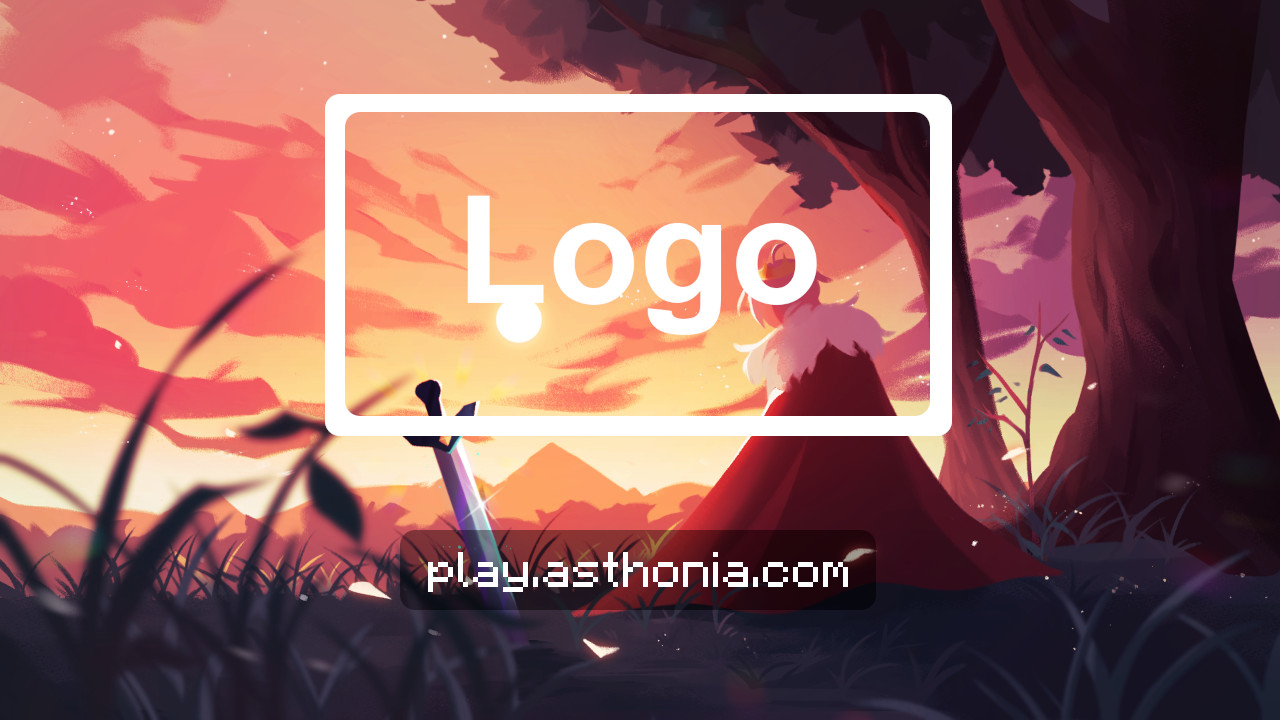
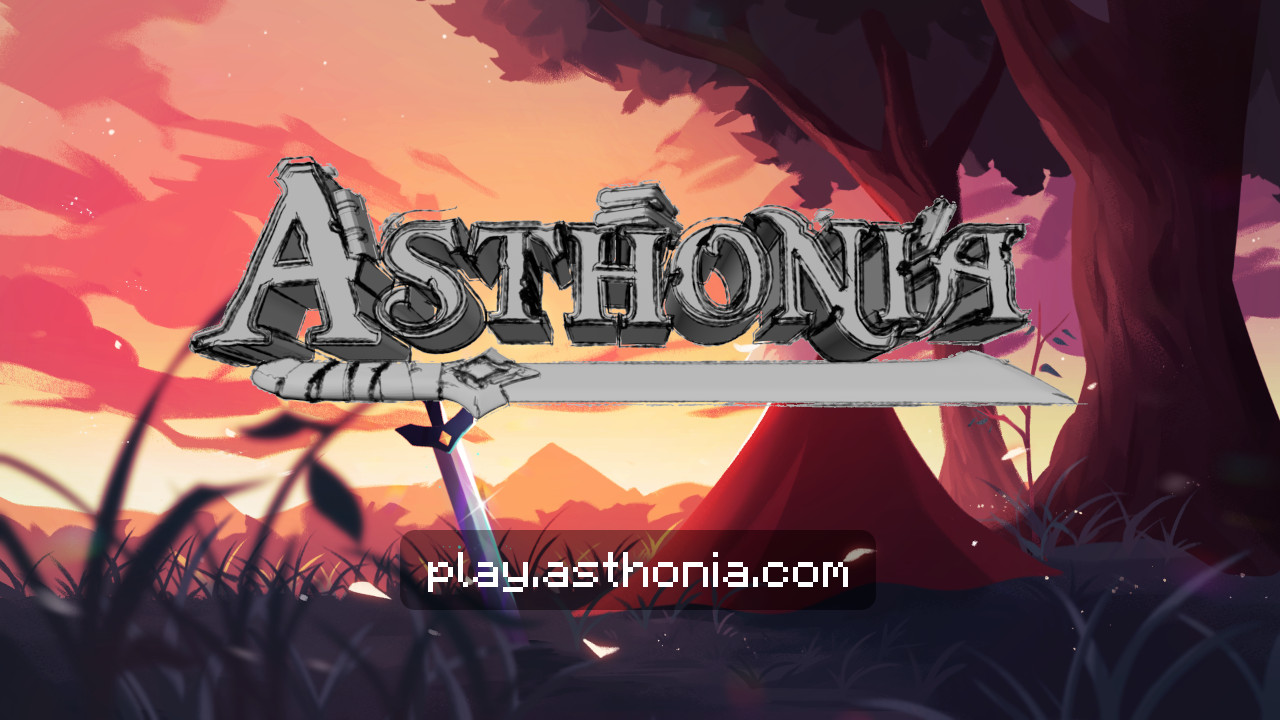
Sync remote

Changed region(s): [[0.125, 0.1222, 0.8438, 0.6111]]

diff --git a/content/assets/templates/seo.html b/content/assets/templates/seo.html
@@ -1,15 +1,15 @@
 <meta charset="utf-8" />
-<meta name="description" content="A semi-vanilla 1.18.1 survival Minecraft server. Hard survival. RPG skills and abilities. Java + Bedrock support! A challenging adventure awaits... Join Now!" />
+<meta name="description" content="1.18.1 RPG survival Minecraft server! Friendly community. PVE. RPG skills and abilities. Java + Bedrock support! A challenging adventure awaits... Join Now!" />
 <meta property="og:url" content="https://asthonia.com" />
 <meta property="og:type" content="website" />
 <meta property="og:title" content="Asthonia Minecraft Server" />
-<meta property="og:description" content="A semi-vanilla 1.18.1 survival Minecraft server. Hard survival. RPG skills. Java + Bedrock support!" />
+<meta property="og:description" content="1.18.1 RPG survival Minecraft server! Friendly community. PVE. RPG skills and abilities. Java + Bedrock support!" />
 <meta property="og:image" content="https://asthonia.com/assets/images/promo-card.jpg" />
 <meta name="twitter:card" content="summary_large_image" />
 <meta property="twitter:domain" content="asthonia.com" />
 <meta property="twitter:url" content="https://asthonia.com" />
 <meta name="twitter:title" content="Asthonia Minecraft Server" />
-<meta name="twitter:description" content="A semi-vanilla 1.18.1 survival Minecraft server. Hard survival. RPG skills. Java + Bedrock support!" />
+<meta name="twitter:description" content="1.18.1 RPG survival Minecraft server! Friendly community. PVE. RPG skills and abilities. Java + Bedrock support!" />
 <meta name="twitter:image" content="https://asthonia.com/assets/images/promo-card.jpg" />
 <meta name="viewport" content="width=device-width,initial-scale=1.0,user-scalable=no" />
 <meta name="apple-mobile-web-app-capable" content="yes" />

diff --git a/content/index.php b/content/index.php
@@ -47,7 +47,7 @@
       <div class="title" style="background: linear-gradient( rgba(0, 0, 0, 0.1), rgba(0, 0, 0, 0.3) ), url(/assets/images/starshrew-bg.webp); background-size: cover; background-position: 85%;">
         <div id="landing-title-text" style="text-align: center">
           <img id="landing-logo" src="/assets/images/logo.webp" alt="Asthonia Logo" />
-          <h1 class="hide-mobile-2">Adventure Awaits</h1>
+          <h1 class="hide-mobile-2">1.18.1 RPG Survival</h1>
           <h2 class="hide-mobile" id="player-count">99 Players Online</h2>
           <p class="ip">play.asthonia.com</p>
           <div style="width:100%">
